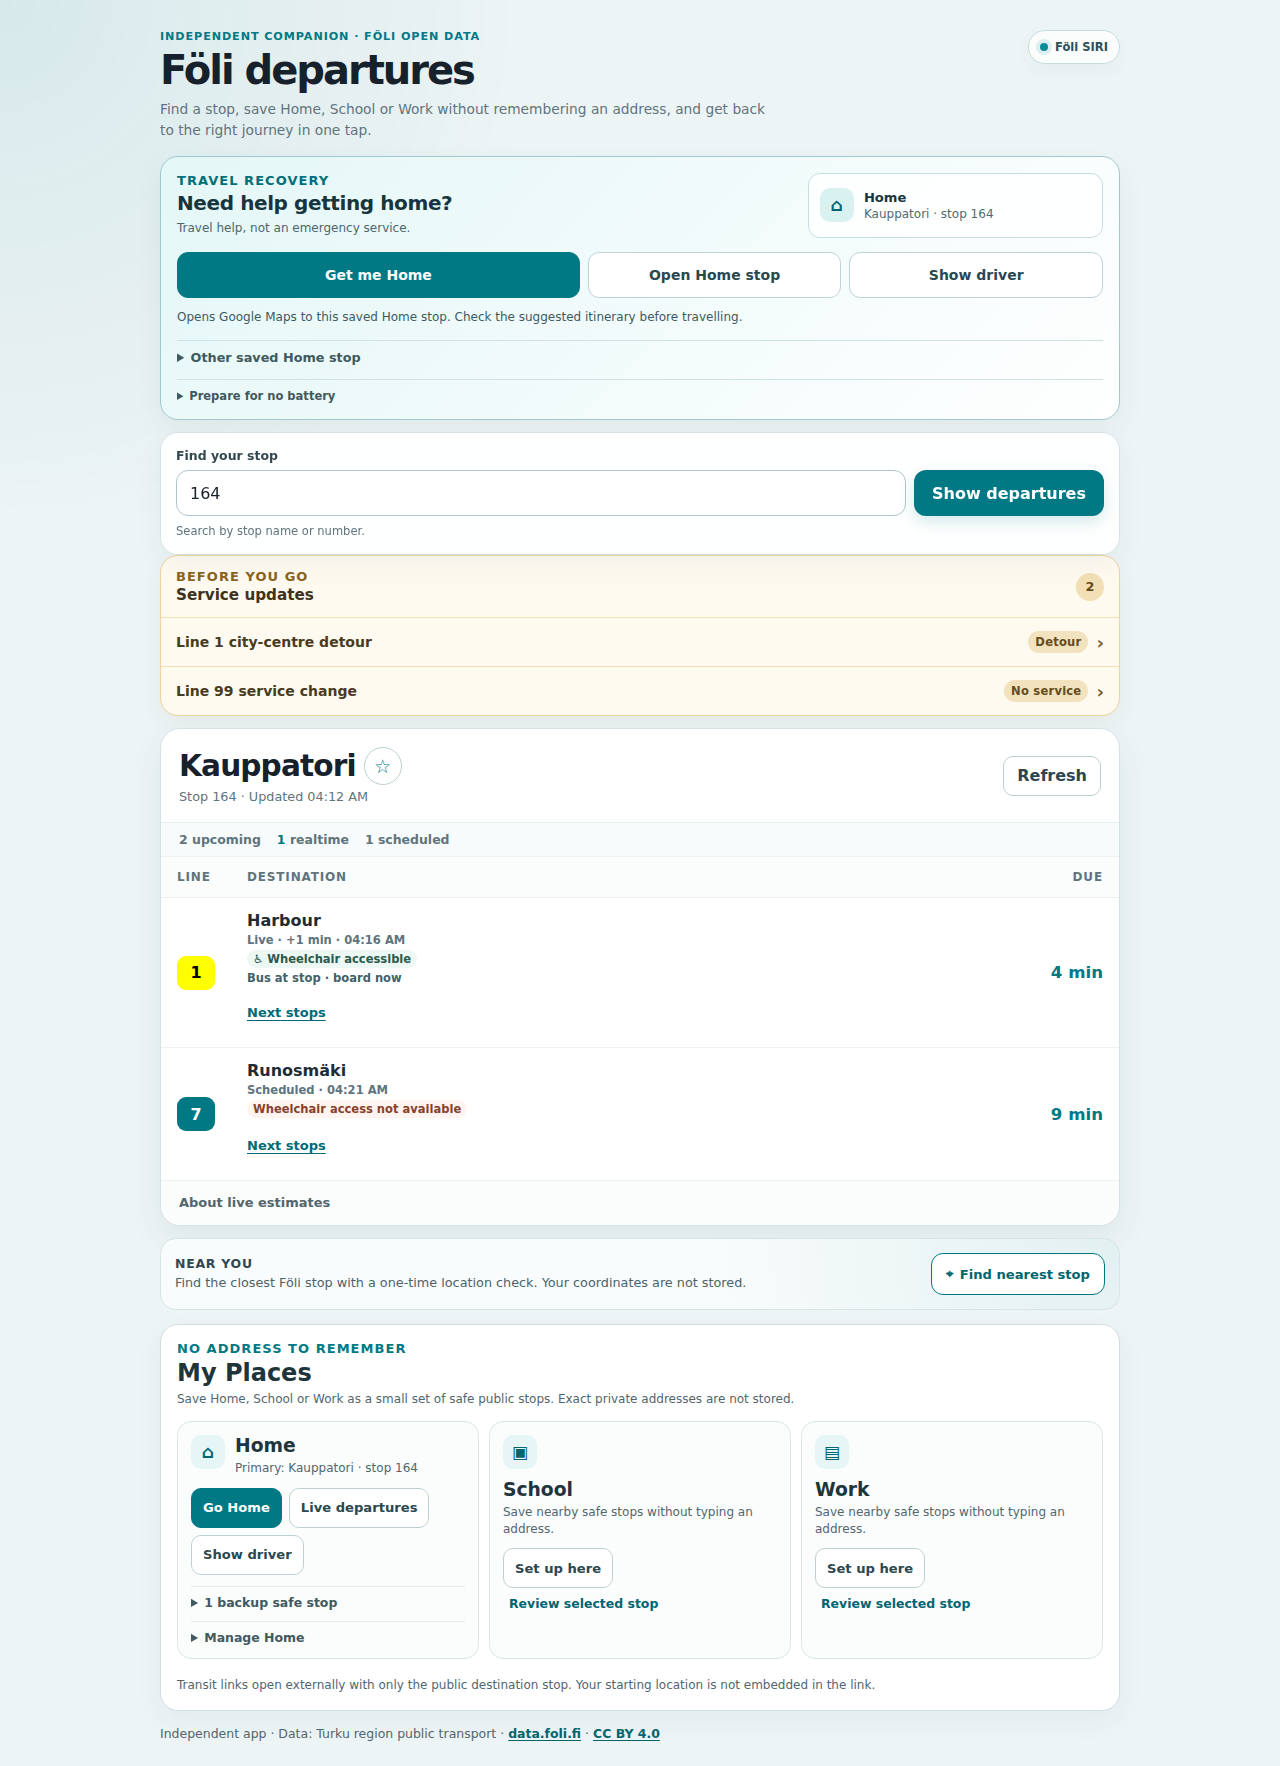
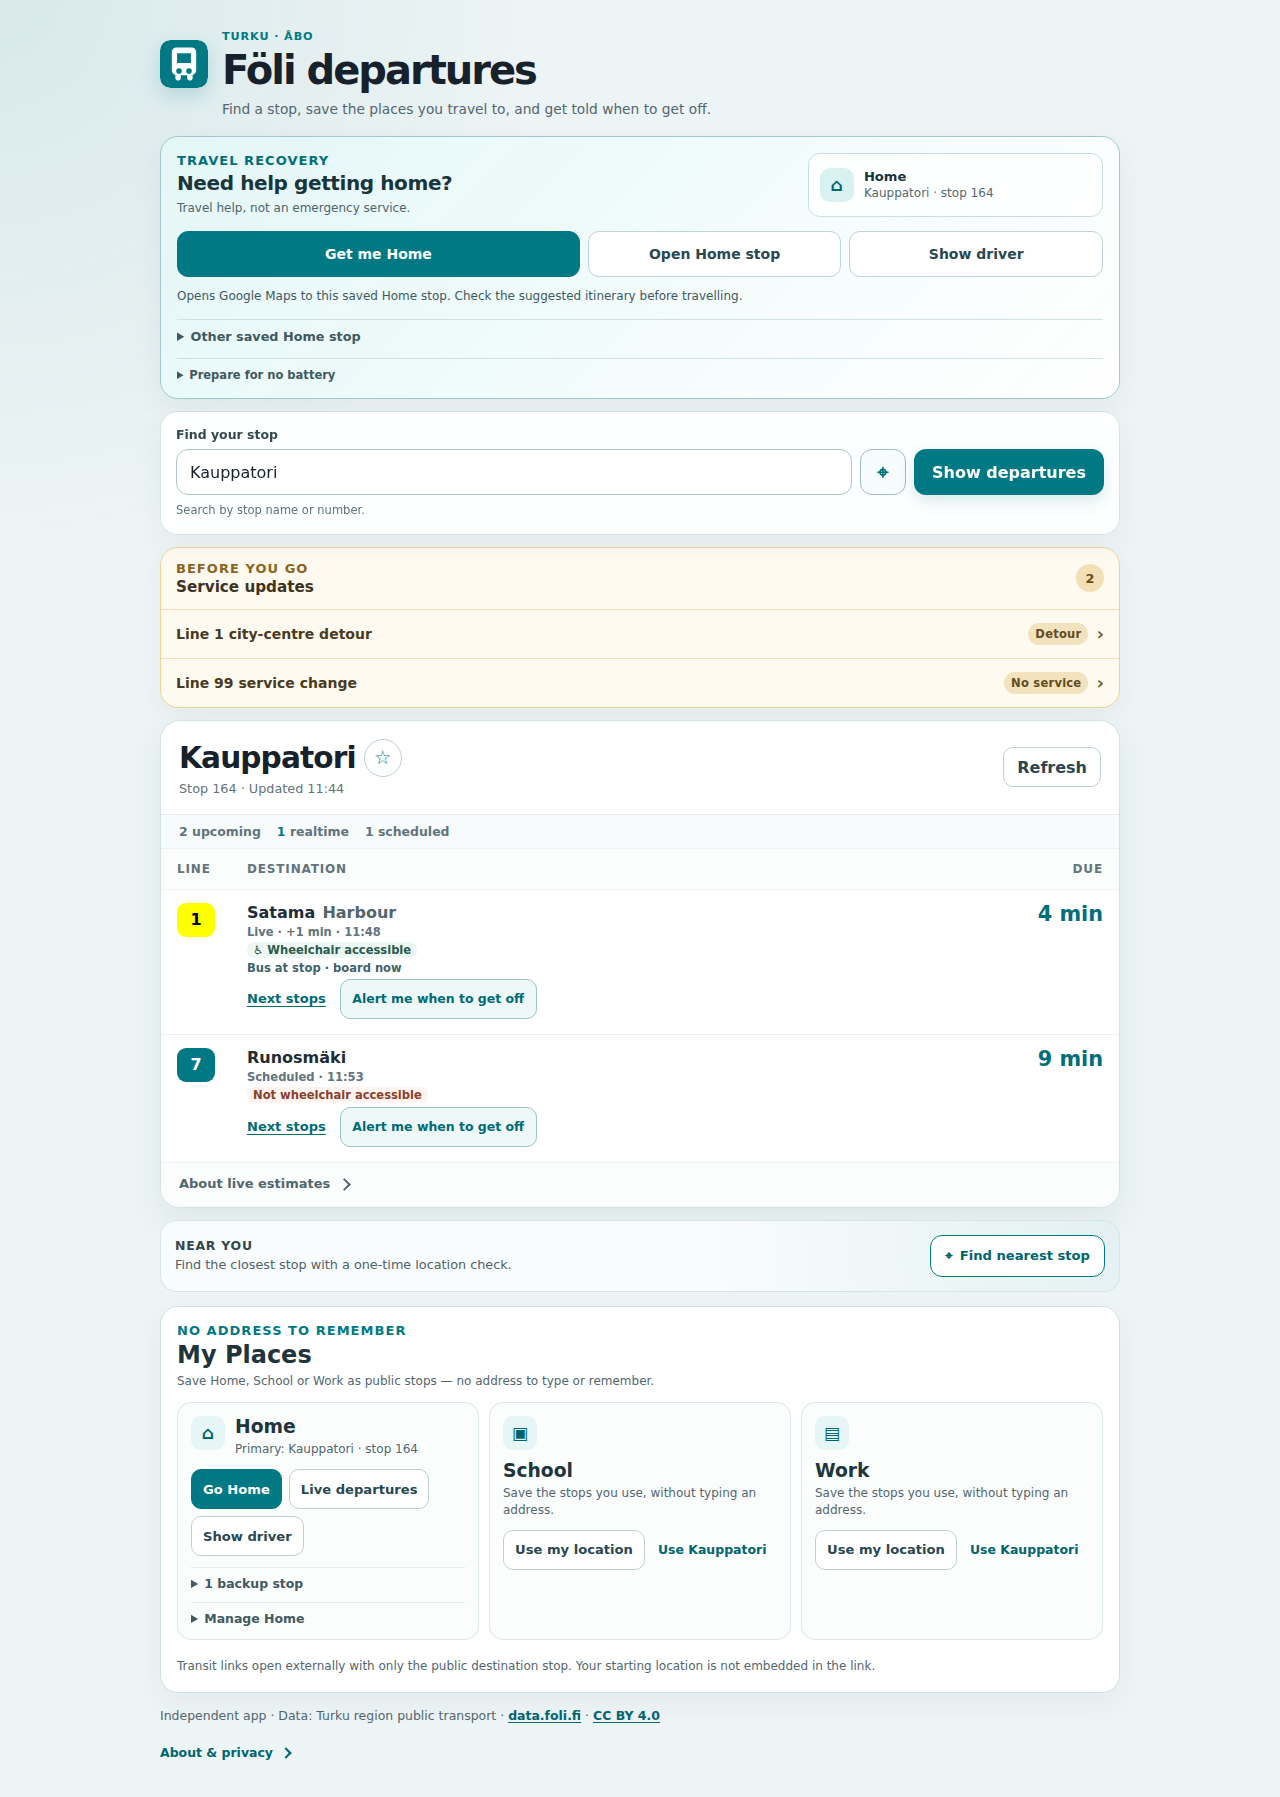
docs: refresh the README screenshots and show the get-off alert
The product preview still showed the old interface: a "Föli SIRI"
pill, 12-hour times and no brand mark. It never showed Ride Mode,
the app's one unique feature.

The desktop and mobile shots are retaken from the current build by
the existing e2e capture test. A third shot shows the "Get off now"
panel. The Ride Mode e2e test on chromium-mobile now saves it to
artifacts/screenshots/foli-ride-now.png, so it can be retaken the same
way.

Claude-Session: https://claude.ai/code/session_01PDq2QrcNs2gzHQBUtSjcr4

diff --git a/e2e/daily-flow.spec.js b/e2e/daily-flow.spec.js
@@ -673,7 +673,7 @@ test("a ride's own controls stay reachable on a small phone", async ({
 
 test("Ride Mode says get off now once the bus is standing at the stop", async ({
   page,
-}) => {
+}, testInfo) => {
   // The vehicle being listed at the target stop is the strongest evidence
   // there is, and it is the only one that can raise the alarm without GPS.
   await routeTargetStop(page, { vehicleatstop: true, expectedarrivaltime: 0 });
@@ -684,6 +684,14 @@ test("Ride Mode says get off now once the bus is standing at the stop", async ({
 
   await expect(page.getByRole("heading", { name: "Get off now" })).toBeVisible();
   await expect(page.locator('[data-stage="now"]')).toBeVisible();
+
+  // The README's picture of the feature, taken from the real panel.
+  if (testInfo.project.name === "chromium-mobile") {
+    fs.mkdirSync("artifacts/screenshots", { recursive: true });
+    await page
+      .locator('section[aria-labelledby="ride-mode-title"]')
+      .screenshot({ path: "artifacts/screenshots/foli-ride-now.png" });
+  }
 
   // The confirmation only exists at this stage, and it has to end the ride
   // so the repeating alert stops for someone already on the pavement.

diff --git a/README.md b/README.md
@@ -39,6 +39,12 @@ Live departures, hands-free **Ride Mode** get-off alerts, disruptions, nearest s
     alt="Föli Live Departures mobile experience with stop search and upcoming departures"
     width="320"
   >
+  &nbsp;
+  <img
+    src="docs/assets/foli-ride-now.png"
+    alt="Ride Mode at the passenger's stop: Get off now at Puistokatu, move to the doors and step off here"
+    width="320"
+  >
 </p>
 
 > **Independent portfolio project.** Not an official Föli application.
